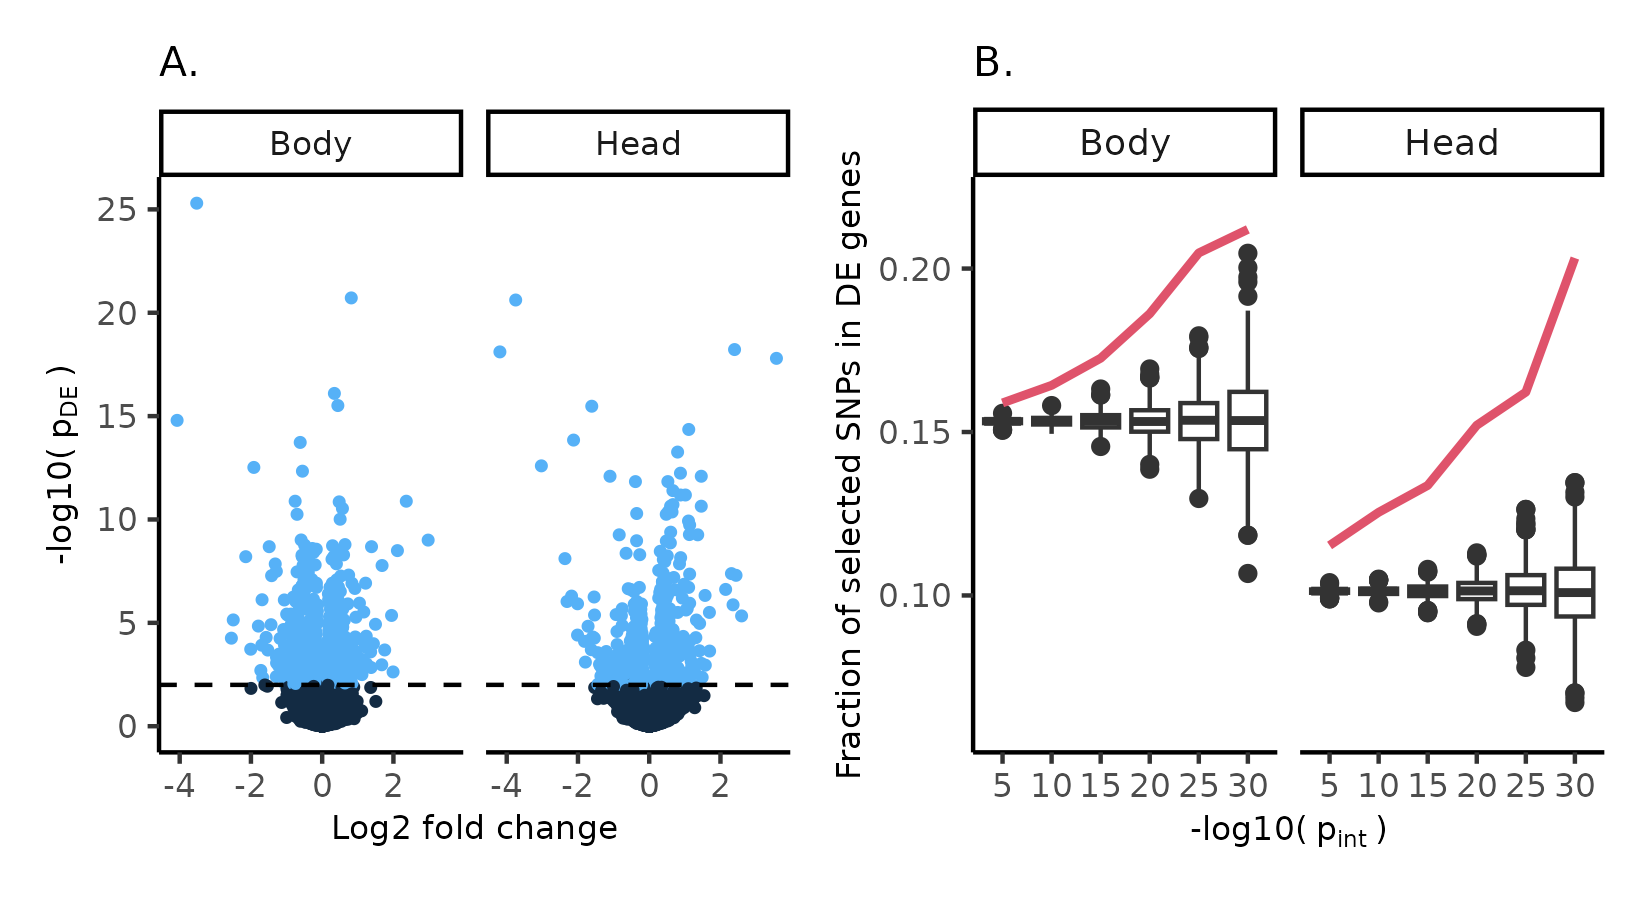
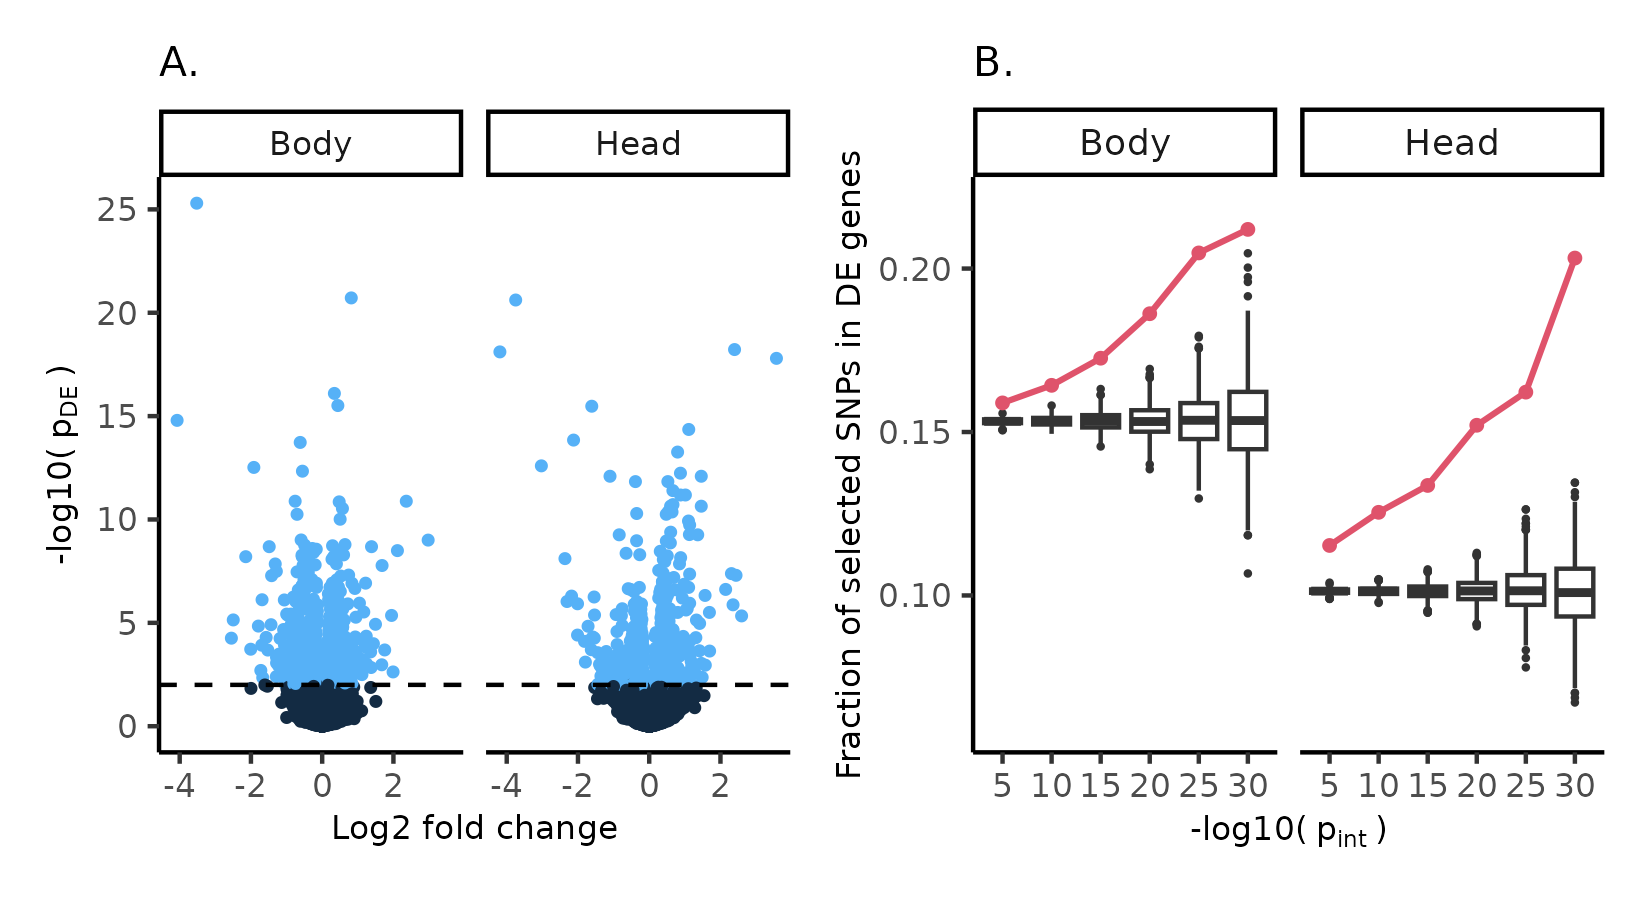
New epistasis and DE figure, fig1 legend, text fix

diff --git a/main.md b/main.md
@@ -111,7 +111,7 @@ Diet and foraging are ubiquitous sources of environmental stress for animal popu
 
 Here, we performed an E&R experiment where three replicate populations of _Drosophila melanogaster_ were exposed to a stressful environment in the form of a high level of dietary sugar, while another three replicate populations were maintained on a control diet. All six populations were derived from the same base population. Whole genome sequencing was performed on flies from all six populations at generations 1, 11, 25, and 100, giving a total of almost 3000 sequenced individuals. Using this time series genomic data, we identify two directions of allele frequency change. The largest driver was shared across selected and control populations, suggesting a shared lab environment selection. The second-largest driver of genetic change contrasts control and selected populations, and so is linked to the selection regime. We estimate that at least 4% of the genome was under positive selection due to high sugar stress. Most observed changes in allele frequency are however relatively modest, and using the individual sequence data to estimate haplotypes, we show how most of the selected loci do not show archetypal signals of selective sweeps after 100 generations. These results point towards a highly polygenic selection response, in line with theoretical expectations from quantitative genetics theory. We then measure differentially expressed (DE) genes across selected and control lines after selection and show that DE genes are highly enriched for selected SNPs, pointing to regulatory divergence as a mechanism for the effects of the polygenic response to selection. We also quantify correlations in allele frequency between pairs of selected loci over time, as well as gametic disequilibrium after 100 generations of adaptation, and show that several alleles show correlations and gametic disequilibrium across unlinked loci, suggesting that epistatic interactions participated in the response to selection. We confirm this last point by using Wright-Fisher simulations, showing that the correlations and the gametic disequilibrium we observe are unlikely to appear in the absence of epistatic interactions. While we lack a clear phenotype to directly study the effect of epistatic variation on selection response, our results suggest that epistatic contributions to polygenic response to selection are common and lead to detectable genomic signatures. 
 
-![__Draft:__ Selection experiment design. A. Scheme of the experimental design. B. LD decay across [hs]{.smallcaps} and [control]{.smallcaps} populations. C. Minor allele frequency across generations.](./figures/High_Sugar_Selection.png){ #fig:experiment }
+![Selection experiment design. A. Scheme of the experimental design. A synthetic outbred population was created by round-robin cross of 16 lines from the Netherlands. This population (NEX) was kept as an outbred population for over 50 generations before the start of the selection experiment. Starting from NEX, 3 control ([control]{.smallcaps}) and 3 treatment ([hs]{.smallcaps}) populations of around 5000 individuals where kept for 100 generations. Samples of one hundred individuals were taken at generations 1, 11, 25 and 100 for allele frequency tracking.  B. LD decay across [hs]{.smallcaps} and [control]{.smallcaps} populations. NEX derived populations have very low levels of LD. C. Minor allele frequency across generations. D. Egg-lay measurements after selection showing the adaptive response to the high-sugar environment in [hs]{.smallcaps} populations.](./figures/High_Sugar_Selection.png){ #fig:experiment }
 
 # Results
 
@@ -119,7 +119,7 @@ Here, we performed an E&R experiment where three replicate populations of _Droso
 
 To study the effect of long-term selection on a stressful environment, we kept three replicate populations of flies under high sugar stress and three under control conditions for 100 generations. We collected data from 100 individuals at four time points and obtained both allele frequencies from PoolSeq and genotypes from individual sequencing (fig. 1A). This time series genomic data allowed us to analyze the changes in allele frequency and identify the largest drivers of genetic change in response to the stressful environment. After quality control (see Methods), we obtained allele frequency estimates for ~1.76M SNPs, giving a total data collection of 4 time points x 3 replicate populations x 2 treatments x 1.76M SNPs genotype calls. To identify the main drivers of genetic change without any prior assumptions, we performed a Principal Component Analysis (PCA) of the allele frequencies across the entire selection experiment. The first two principal components (PC), explaining 17% and 13% of the variance, largely coincides with time and selection regime, respectively ([@fig:pca; @fig:PCscores_pvals]). This unsupervised approach thus identified time and high sugar selection as the two main drivers of genetic change genome wide. Surprisingly, the time dimension, captured by the first PC, explained slightly more variance than the selection regime, which was captured by the second PC. This shows that all six populations experience some common selection pressures, presumably related to lab environment. The second largest driver of genetic change is indeed exposure to high sugar stress ([@fig:pca]).
 
-![Principal components one (x-axis) and two (y-axis) from the PCA on the genome wide allele frequencies across the entire selection experiment. Each line corresponds to one of the six experimental populations, red indicating high sugar treatment and blue control. The symbols indicate the generation at which the population was sampled. The variance explained by each of the first 23 principal components is shown in the inset. ](./figures/PCs12_inset_allSNPs.png){ #fig:pca }
+![Principal components one (x-axis) and two (y-axis) from the PCA on the genome wide allele frequencies across the entire selection experiment. Each line corresponds to one of the six experimental populations, red indicating high sugar treatment and black control. The symbols indicate the generation at which the population was sampled. The variance explained by each of the first 23 principal components is shown in the inset.](./figures/PCs12_inset_allSNPs.png){ #fig:pca }
 
 ## High sugar selection on individual loci
 
@@ -135,7 +135,7 @@ In order to further relate the locus-specific results (@fig:regression) to the g
 
 Using this conservative threshold, ~45k SNPs show a signature of positive selection that is unique to the high sugar selection regime. Considering 200bp around every selected SNP, corresponding to an average r^2^ of 0.2 (@fig:experiment B), these SNPs span ~5.6Mb, or ~4% of the mappable genome of _D. melanogaster_. Since the LD around the selected loci is expected to be larger than the genome-wide average, we believe this to be a conservative estimate. The magnitudes of the allele frequency changes tend to be relatively small. Comparing generation 1 to generation 100, the mean change across all SNPs in the populations exposed to the high sugar selection regime is 0.11, while the mean change among the selected SNPs is 0.25 (@fig:delta_af). Among all the 1.76M SNPs, only 4753 show a pattern where the minor allele at generation 1 has reached fixation at generation 100 in at least one of the populations in the high sugar selection regime. Furthermore, many SNPs also display a delayed selection response, with the largest change in allele frequency after generation 25 (@fig:delta_af). This is consistent with theoretical predictions for polygenic adaptation involving independent loci [@Pavlidis2012-ly; @Chevin2008-gx], but could also be due to epistatic effects [@Paixao2016-gf]. 
 
-![Histograms showing mean changes in allele frequency in the populations exposed the high sugar selection regime, between generation 1 and 11, 1 and 25, and 1 and 100. Panel A includes all 1.76M SNPs and panel B includes the 45k SNPs that show a signature of positive selection unique to the high sugar selection regime. ](./figures/delta_af.png){ #fig:delta_af }
+![Histograms showing mean changes in allele frequency in the populations exposed the high sugar selection regime, between generation 1 and 11, 1 and 25, and 1 and 100. Panel A includes all 1.76M SNPs and panel B includes the 45k SNPs that show a signature of positive selection unique to the high sugar selection regime.](./figures/delta_af.png){ #fig:delta_af }
 
 ### Do the selected alleles show a detectable sweep signature?
 
@@ -148,7 +148,7 @@ Much of the genetic variation for complex traits resides in gene-regulatory regi
 
 DE genes between flies adapted to the respective selection regimes was measured separately for head and body samples. At and FDR < 0.01, 1155 and 578 genes showed DE in body and head respectively. We went on to ask how many of these DE genes fall in regions with signatures of selection. In both body and head, we see an enrichment of selected SNPs among the genes showing DE (@fig:DE B). Starting at p-value of 10^-5^ for the selection term, this enrichment gets more pronounced with increasingly stringent selection p-values. The enrichment highly exceeds the expected random overlap between selection signals and DE genes, as estimated from a permutation test, indicating that adaptation appears to have acted on regulatory genetic variants.
 
-![Differential expression after selection. (A) Volcano plots showing differential gene expression between flies adapted to the high sugar versus control selection regime, after controlling for the plastic effects related to each diet. Each point corresponds to one gene. Y-axis shows the negative log10 transformed p-value of the differential expression, and x-axis shows the log2 transformed fold change. The two panels correspond to expression in body and head tissue. (B) Fraction of SNPs under positive selection in the high sugar selection regime that coincide with a differentially expressed gene (y-axis), at different p-values for the selection signature (x-axis). Solid red lines show the observed fraction, and boxplots show the empirical null distributions obtained from permutations. The two panels correspond to expression in body and head tissue.
+![Differential expression after selection. (A) Volcano plots showing differential gene expression between flies adapted to the high sugar versus control selection regime, after controlling for the plastic effects related to each diet. Each point corresponds to one gene. Y-axis shows the negative log10 transformed p-value of the differential expression, and x-axis shows the log2 transformed fold change. The two panels correspond to expression in body and head tissue. (B) Fraction of SNPs under positive selection in the high sugar selection regime that coincide with a differentially expressed gene (y-axis), at different p-values for the selection signature (x-axis). Solid red lines show the observed fraction of SNPs overlapping DE genes and boxplots show the empirical null distributions obtained from permutations. The two panels correspond to expression in body and head tissue.
 ](./figures/DE.png){ #fig:DE }
 
 
@@ -187,7 +187,7 @@ One of the possible signatures of polygenic response is having different sets of
 
 ## Mapping Population
 
-To allow the detection of allelic effects that would be hidden in natural populations due to low frequency, we created a synthetic outbred mapping population. To create this population, we selected 16 inbred lines from the Netherlands population from the [Global Diversity Lines]{.smallcaps} [@Grenier2015-ie]. The lines were selected based upon their low frequency of inversion to reduce the suppression of recombination associated with inversions [@Barghi2019-fh]. To establish the population from these lines, we performed a round-robin cross on the initial lines (1 \Female → 2 \Male, 2 \Female → 3 \Male, ..., 16 \Female → 1 \Male) and subsequently performed a round-robin cross on the F1s to ensure parental representation and that no chromosome was lost. The resulting F2 individuals were placed in large cages and allowed to recombine freely for more than 50 generations. This design increases the allele frequency of rare variants by replicating and randomizing throughout the population.
+To allow the detection of allelic effects that would be hidden in natural populations due to low frequency, we created a synthetic outbred mapping population. To create this population, we selected 16 inbred lines from the Netherlands population (NEX) from the [Global Diversity Lines]{.smallcaps} [@Grenier2015-ie]. The lines were selected based upon their low frequency of inversion to reduce the suppression of recombination associated with inversions [@Barghi2019-fh]. To establish the population from these lines, we performed a round-robin cross on the initial lines (1 \Female → 2 \Male, 2 \Female → 3 \Male, ..., 16 \Female → 1 \Male) and subsequently performed a round-robin cross on the F1s to ensure parental representation and that no chromosome was lost. The resulting F2 individuals were placed in large cages and allowed to recombine freely for more than 50 generations. This design increases the allele frequency of rare variants by replicating and randomizing throughout the population.
 
 ## Selection Regime
 
@@ -251,7 +251,7 @@ To identify the transcriptional differences due to adaptation to high sugar, we 
 
 ### Differentially expressed genes and selection
 
-Having identified genes that were differentially expressed between flies adapted to the respective selection regimes, we went on to look for signals of selection  nearby along the chromosome to these genes. Considering an interval ± 5 kb around each gene, we looked for SNPs showing a significant time-by-regime effect in the regression analysis and overlapped with the DE genes. To this end we used the R-package GenomicRanges, and the fraction of overlapping selected SNPs was calculated at p-value thresholds {10^-5^, 10^-10^, 10^-15^, 10^-20^, 10^-25^, 10^-30^} for the time-by-regime effect (@fig:DE B, black lines). Because of the large number of DE genes and selected SNPs, we expect some amount of overlap between the two by chance. To quantify this expected chance overlap, we performed a permutation test. For each permutation, the same number of SNPs as we observed to be significant at that significance threshold was picked at random from the full set of 1.76M SNPs. We then calculated the fraction of these random SNPs that overlapped with the DE genes. Performing 1000 permutations at each p-value threshold gave us empirical null distributions for the overlap (@fig:DE B, boxplots).
+Having identified genes that were differentially expressed between flies adapted to the respective selection regimes, we went on to look for signals of selection  nearby along the chromosome to these genes. Considering an interval ± 5 kb around each gene, we looked for SNPs showing a significant time-by-regime effect in the regression analysis and overlapped with the DE genes. To this end we used the R-package GenomicRanges, and the fraction of overlapping selected SNPs was calculated at p-value thresholds {10^-5^, 10^-10^, 10^-15^, 10^-20^, 10^-25^, 10^-30^} for the time-by-regime effect (@fig:DE B, red lines and points). Because of the large number of DE genes and selected SNPs, we expect some amount of overlap between the two by chance. To quantify this expected chance overlap, we performed a permutation test. For each permutation, the same number of SNPs as we observed to be significant at that significance threshold was picked at random from the full set of 1.76M SNPs. We then calculated the fraction of these random SNPs that overlapped with the DE genes. Performing 1000 permutations at each p-value threshold gave us empirical null distributions for the overlap (@fig:DE B, boxplots).
 
 
 ## Epistatic selection signatures
